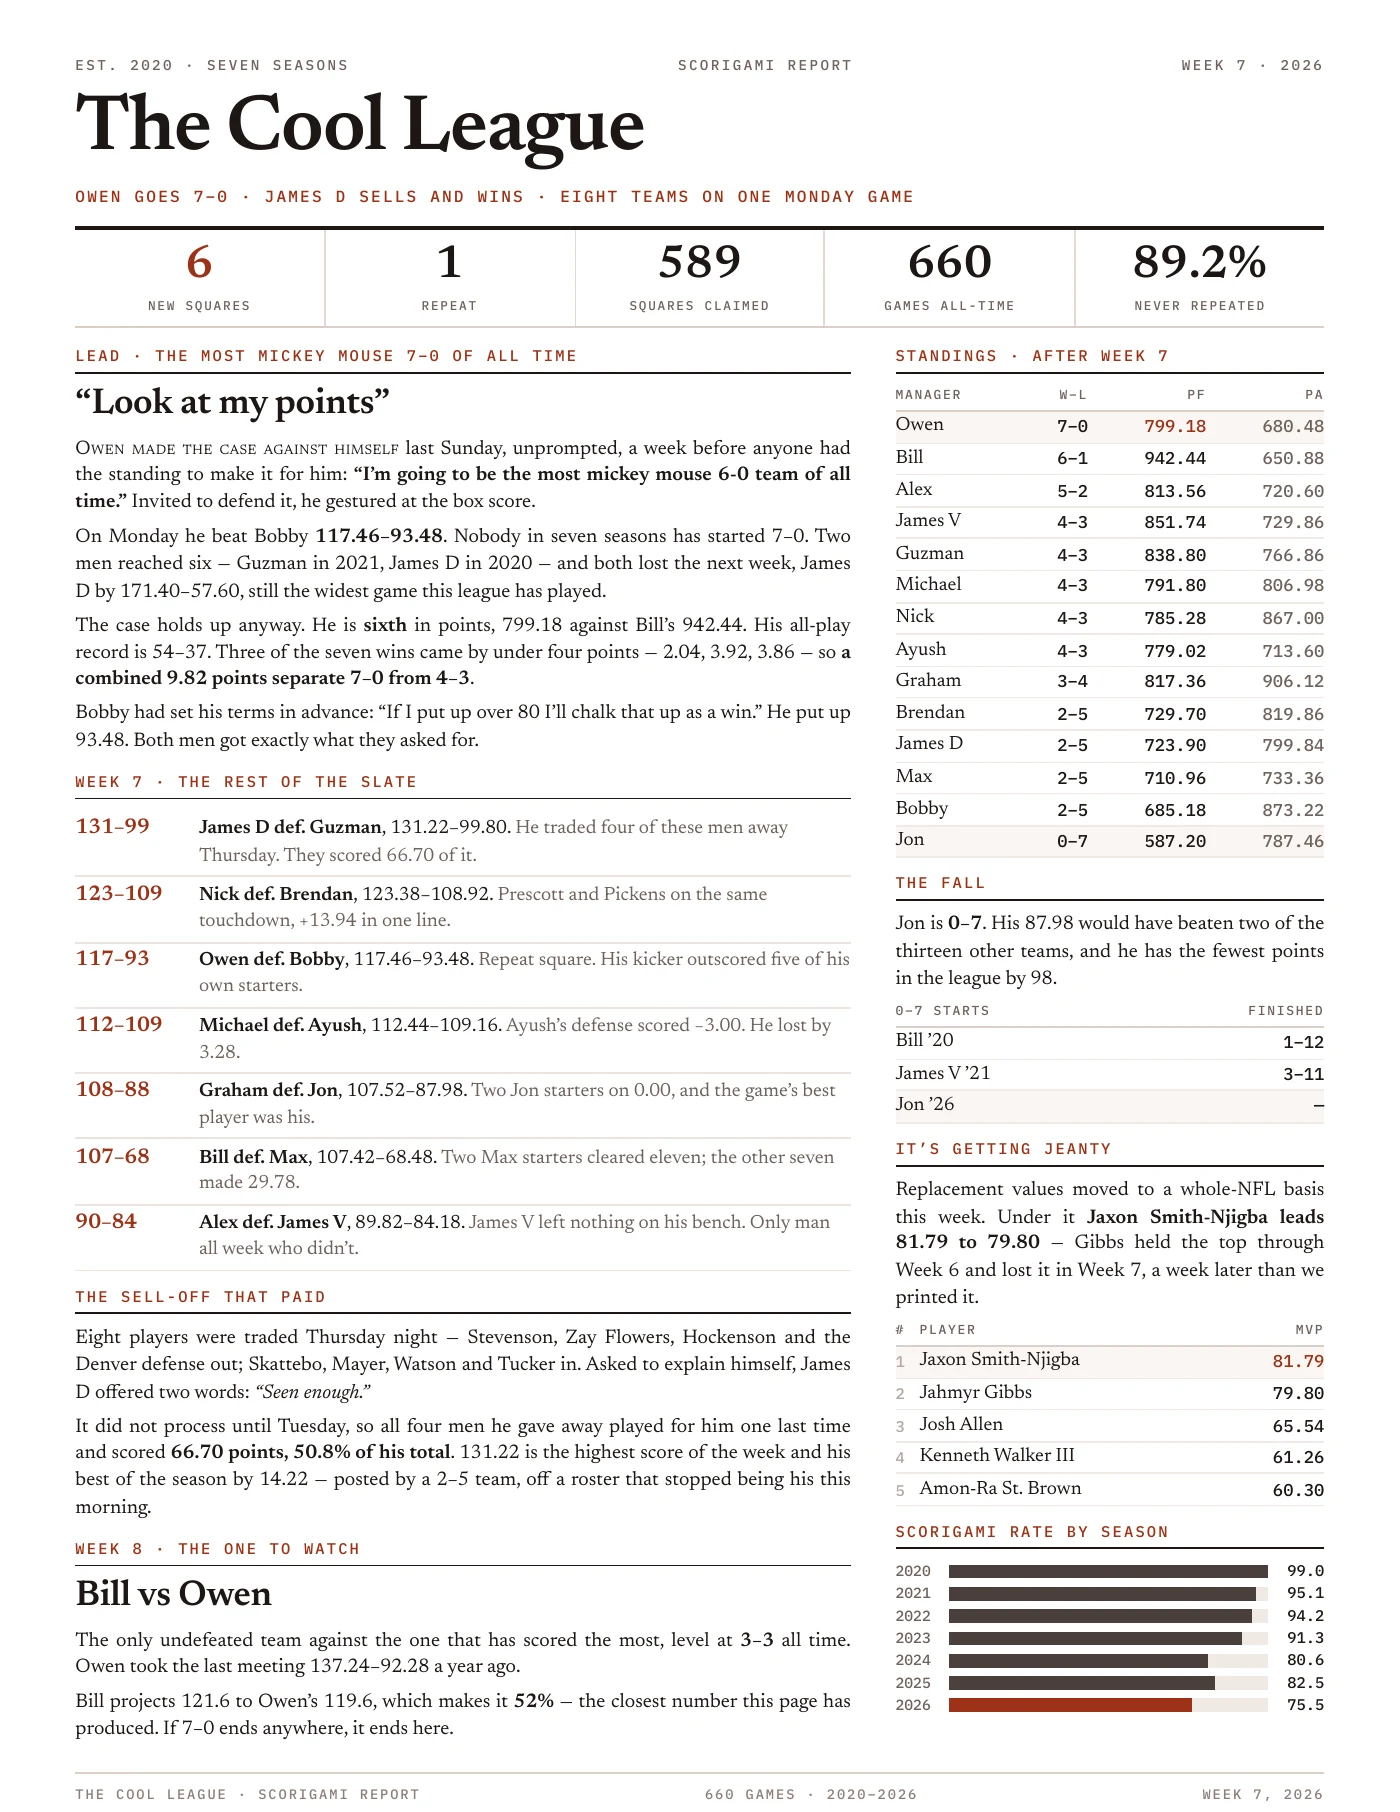
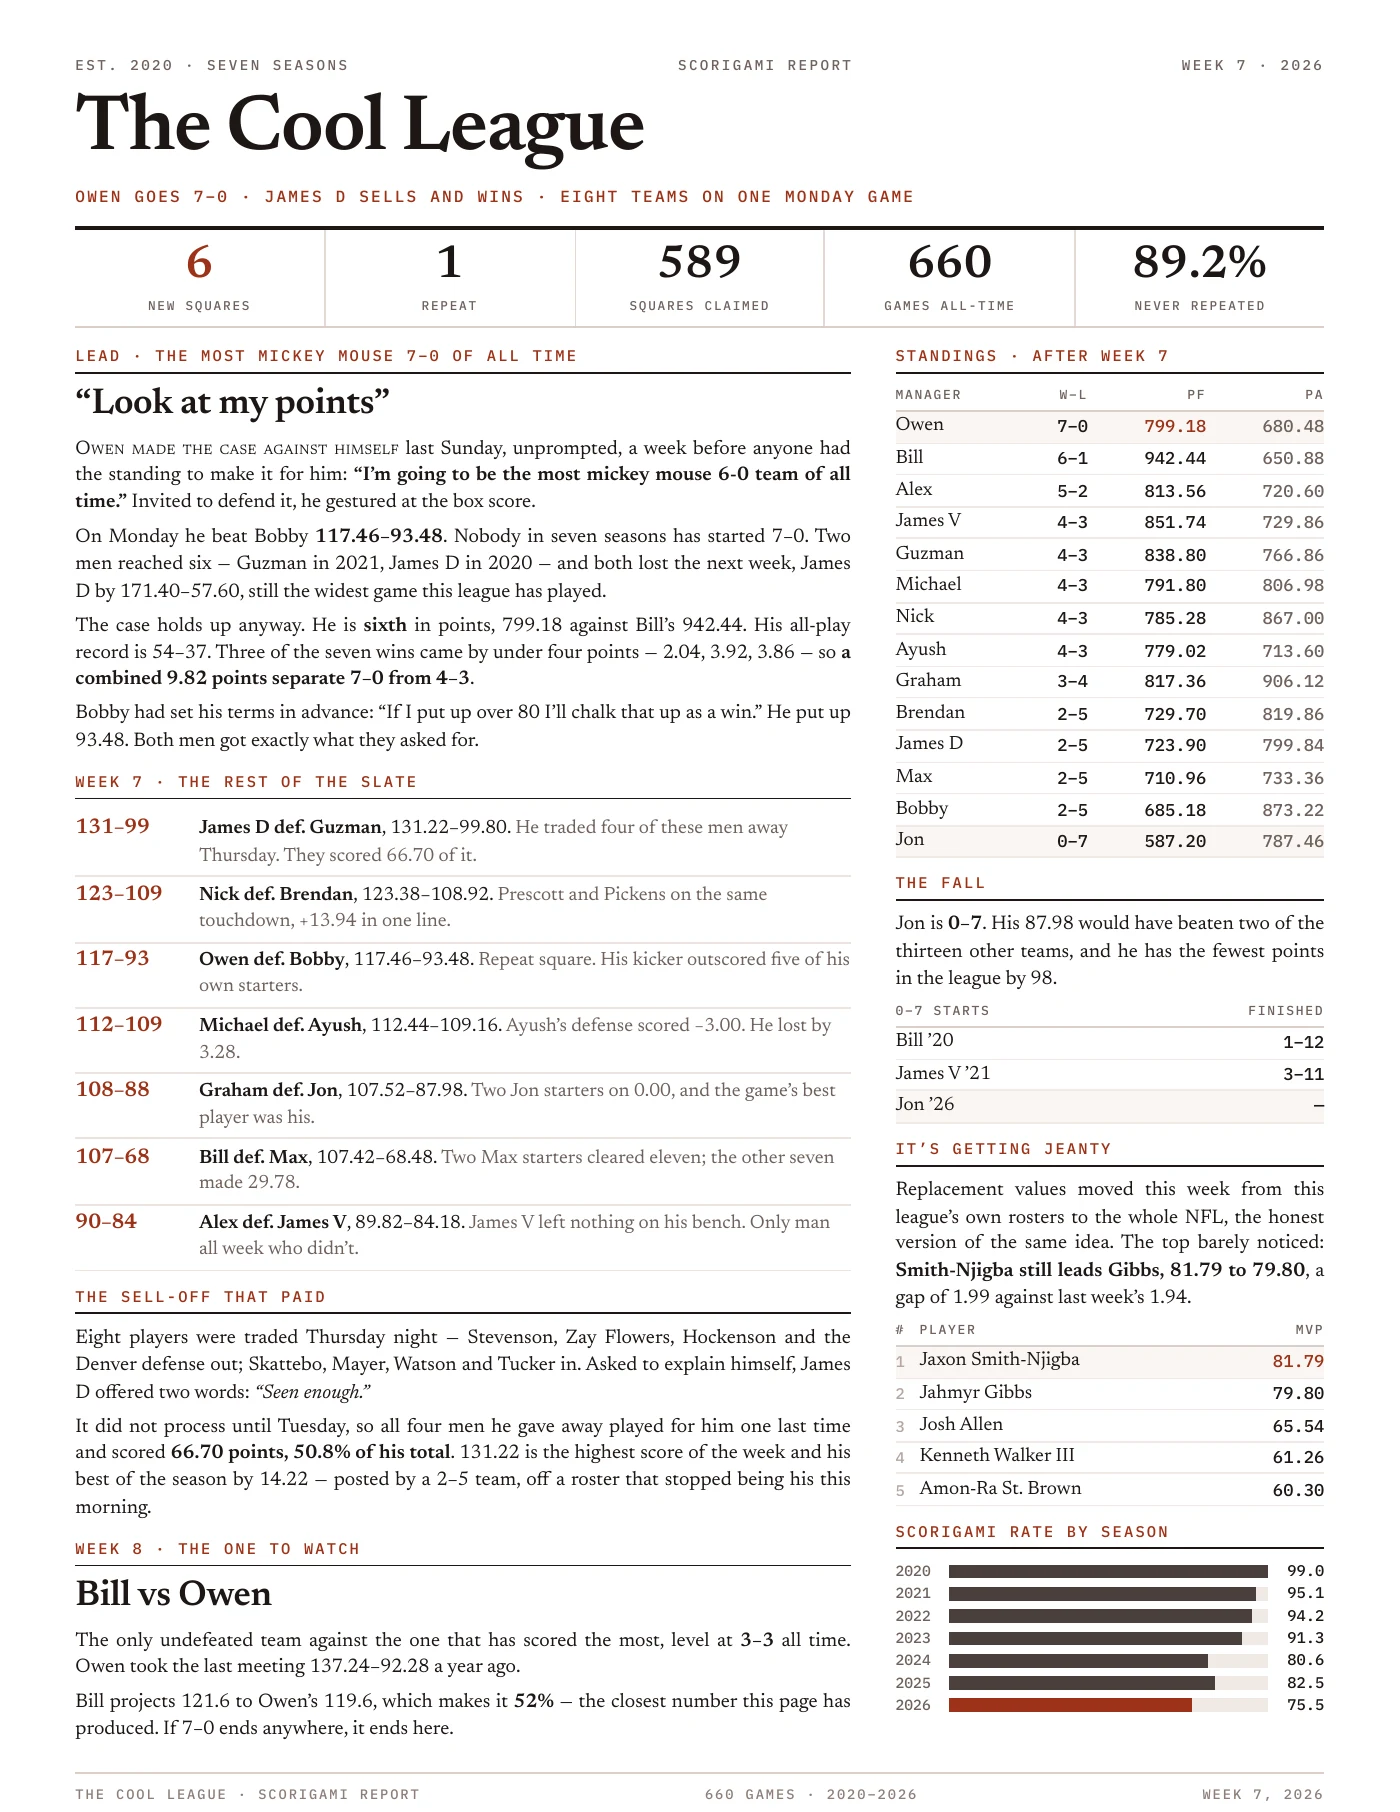
MVP ladder arrows measure against the published ladder
mvpMoves recomputed last week's ladder with this week's method, so the
switch to whole-NFL replacement values showed up as Smith-Njigba and
Gibbs swapping places in a week neither of them moved.

LADDER_PUB now holds each issue's ladder exactly as it printed (wk6 155
qualifiers, wk7 143, both read off the deployed pages); mvpMoves uses the
snapshot when there is one and falls back to recomputation otherwise.
Ladder note and one-pager reworded to match.

Claude-Session: https://claude.ai/code/session_013zvrbkmsLqJGurJxMMmd5c

Changed region(s): [[0.645, 0.649, 0.9521, 0.7417]]

diff --git a/public/index.html b/public/index.html
@@ -865,7 +865,7 @@ const ISSUE={
    'Michael 112.44, Ayush 109.16, and the quarterback who decided it was Kirk Cousins. Ashton Jeanty’s fifteen-yard receiving touchdown in the fourth quarter was worth 8.5 points and <strong>53% of win probability</strong>, the biggest single swing of the week. ESPN had Michael at 0% for most of the afternoon.',
    'Readers of last week’s issue will recognise the passer. <strong>Kirko Chainz</strong> is the quarterback Guzman never meant to start, left in the lineup while the cinnamon rolls were in the oven. Seven days later he throws the touchdown that ends Ayush’s four-game run.',
    'Michael’s two trades paid in exactly one direction. <strong>Drake Maye, six days a Black Panther, led all scorers with 27.44.</strong> Sam LaPorta, acquired the following afternoon, managed 2.80.',
-   'A note on the ladder itself. Replacement values changed basis this week — from this league’s own rosters to the whole NFL, which is the honest version — and under the new one Gibbs still led after Week 6. So Smith-Njigba’s takeover, which we reported last week, actually happened this week. He leads 81.79 to 79.80.']},
+   'A note on the ladder itself. Replacement values moved this week from this league’s own rosters to the whole NFL, which is the honest version of the same idea. The top barely noticed: Smith-Njigba still leads Gibbs, <strong>81.79 to 79.80</strong>, a gap of 1.99 against last week’s 1.94. The arrows measure against the ladder we printed last week rather than a recomputation of it, so a change of method never shows up as a player moving.']},
   recaps:[
    {w:'Owen', note:'His kicker outscored five of his own starters. Cairo Santos put up 14.00; Woody Marks, Rome Odunze, Brock Bowers, Aaron Jones and the Green Bay defense managed 38.90 between the five of them.'},
    {w:'James D', note:'Guzman’s defense scored nothing at all and his flex gave him 4.10. The front half of that lineup was good enough to beat most of the league. The back half is why it lost by thirty-one.'},
@@ -1589,9 +1589,17 @@ function mvpLadder(year,upto){
   return MVP_CACHE[CK];
 }
 /* Where each player sat a week ago: +n climbed, -n slipped, null is new to the ladder. */
+/* The ladder exactly as each issue printed it. The arrows measure against this,
+   not against a recomputation — otherwise a change of method (new replacement
+   values, say) shows up as players moving in a week they never moved. */
+const LADDER_PUB={2026:{
+ 6:["Jaxon Smith-Njigba","Jahmyr Gibbs","Josh Allen","Kenneth Walker III","Brock Bowers","Amon-Ra St. Brown","Puka Nacua","Isaiah Likely","Trey McBride","CeeDee Lamb","Brock Purdy","Bijan Robinson","Christian Watson","Jared Goff","Tyler Shough","Chris Olave","Lamar Jackson","Jayden Daniels","Matthew Stafford","George Kittle","Sam LaPorta","Trevor Lawrence","Joe Burrow","Kyren Williams","Jonathan Taylor","Chuba Hubbard","Parker Washington","Christian McCaffrey","Zay Flowers","Matthew Golden","Derrick Henry","Tyler Warren","James Cook","Bryce Young","Nico Collins","Malik Nabers","Kirk Cousins","Jaylen Warren","Tetairoa McMillan","Juwan Johnson","C.J. Stroud","Jordan Love","Garrett Wilson","DeVonta Smith","Davante Adams","Patrick Mahomes","D'Andre Swift","Javonte Williams","Ashton Jeanty","Jalen Coker","Drake Maye","Mike Evans","Aaron Jones","Travis Kelce","Dak Prescott","Ja'Marr Chase","George Pickens","Tee Higgins","Justin Jefferson","Tucker Kraft","Jalen Hurts","Drake London","Bhayshul Tuten","Dallas Goedert","Stefon Diggs","Harold Fannin Jr.","Deebo Samuel","Bucky Irving","Jameson Williams","Emeka Egbuka","Luther Burden III","Dalton Kincaid","Tre Tucker","DK Metcalf","Kyle Pitts","Sam Darnold","Kyle Monangai","Dalton Schultz","Michael Wilson","Keon Coleman","T.J. Hockenson","Denzel Boston","Hunter Henry","Romeo Doubs","Bo Nix","Carnell Tate","Colston Loveland","Devaughn Vele","Brenton Strange","Michael Mayer","Deshaun Watson","Chase Brown","Keenan Allen","Quinshon Judkins","Jakobi Meyers","Kenyon Sadiq","Rashod Bateman","Jake Ferguson","Mark Andrews","Josh Downs","Malik Washington","Khalil Shakir","Cam Skattebo","Wan'Dale Robinson","Justin Herbert","Terry McLaurin","Xavier Worthy","Ladd McConkey","Jaylen Waddle","Rhamondre Stevenson","Rome Odunze","Emanuel Wilson","Ryan Flournoy","RJ Harvey","Omarion Hampton","Braelon Allen","Jeremiyah Love","Alvin Kamara","Jacory Croskey-Merritt","Woody Marks","Dontayvion Wicks","Chris Godwin","Kalif Raymond","Tre' Harris","Rachaad White","Daniel Jones","David Montgomery","Tony Pollard","Xavier Hutchinson","KC Concepcion","Brian Robinson Jr.","Antonio Williams","J.K. Dobbins","Blake Corum","Rashid Shaheed","Jerry Jeudy","Malachi Fields","Marvin Harrison Jr.","Brian Thomas Jr.","MarShawn Lloyd","Makai Lemon","Courtland Sutton","Quentin Johnston","Keaton Mitchell","Saquon Barkley","TreVeyon Henderson","Tyler Allgeier","Chris Rodriguez Jr.","Kenneth Gainwell","Tyjae Spears","George Holani","Mike Washington Jr.","Emmett Johnson","Kaelon Black","Ray Davis"],
+ 7:["Jaxon Smith-Njigba","Jahmyr Gibbs","Josh Allen","Kenneth Walker III","Amon-Ra St. Brown","Brock Bowers","CeeDee Lamb","Trey McBride","Bijan Robinson","Puka Nacua","Jared Goff","Zay Flowers","Christian McCaffrey","Brock Purdy","Christian Watson","Jonathan Taylor","Joe Burrow","Kyren Williams","Ashton Jeanty","Jaylen Warren","Chris Olave","Matthew Stafford","Isaiah Likely","Tyler Shough","Chuba Hubbard","James Cook","Drake Maye","George Kittle","Tee Higgins","D'Andre Swift","Parker Washington","Javonte Williams","Malik Nabers","Matthew Golden","Kirk Cousins","Derrick Henry","C.J. Stroud","Trevor Lawrence","Jordan Love","Dak Prescott","Jameson Williams","Sam LaPorta","Davante Adams","George Pickens","Tetairoa McMillan","Tyler Warren","Garrett Wilson","Mike Evans","Bucky Irving","Aaron Jones","Ja'Marr Chase","Drake London","Bhayshul Tuten","Bryce Young","Nico Collins","Juwan Johnson","Travis Kelce","Luther Burden III","Jalen Hurts","Tucker Kraft","Patrick Mahomes","Justin Jefferson","Quinshon Judkins","Jalen Coker","Tre Tucker","Bo Nix","Harold Fannin Jr.","Stefon Diggs","Deebo Samuel","Dallas Goedert","Emeka Egbuka","Colston Loveland","Kyle Pitts","Devaughn Vele","T.J. Hockenson","Michael Wilson","Cam Skattebo","Chase Brown","Rhamondre Stevenson","Sam Darnold","DK Metcalf","Dalton Kincaid","Tony Pollard","Carnell Tate","Romeo Doubs","Emanuel Wilson","Braelon Allen","Denzel Boston","Dalton Schultz","Hunter Henry","RJ Harvey","Michael Mayer","Jakobi Meyers","Brenton Strange","Alvin Kamara","Keenan Allen","Rome Odunze","Kenyon Sadiq","Khalil Shakir","Mark Andrews","Rashod Bateman","Blake Corum","Woody Marks","Malik Washington","Terry McLaurin","Justin Herbert","Josh Downs","Ryan Flournoy","Jeremiyah Love","Omarion Hampton","Jacory Croskey-Merritt","Jaylen Waddle","Wan'Dale Robinson","KC Concepcion","Jake Ferguson","Rachaad White","Xavier Worthy","David Montgomery","J.K. Dobbins","Brian Robinson Jr.","Dontayvion Wicks","Kalif Raymond","Tre' Harris","Saquon Barkley","Makai Lemon","Chris Godwin","Daniel Jones","Antonio Williams","MarShawn Lloyd","Rashid Shaheed","Jerry Jeudy","Marvin Harrison Jr.","Keaton Mitchell","Tyler Allgeier","Kenneth Gainwell","Courtland Sutton","TreVeyon Henderson","Quentin Johnston","Tyjae Spears","Kaelon Black","George Holani","Mike Washington Jr.","Emmett Johnson"]}};
 function mvpMoves(L){
   if(!L.lastWeek||L.weeks<2) return null;
-  const was={}; mvpLadder(L.year,L.lastWeek-1).rows.forEach((r,i)=>was[r.name]=i+1);
+  const pub=(LADDER_PUB[L.year]||{})[L.lastWeek-1], was={};
+  if(pub) pub.forEach((n,i)=>was[n]=i+1);
+  else mvpLadder(L.year,L.lastWeek-1).rows.forEach((r,i)=>was[r.name]=i+1);
   const mv={}; L.rows.forEach((r,i)=>{ mv[r.name]=was[r.name]==null?null:was[r.name]-(i+1); });
   return mv;
 }
